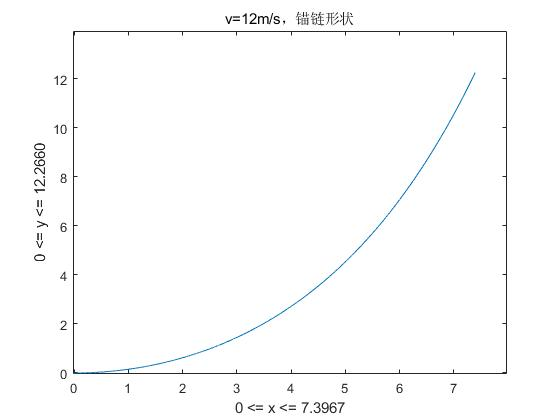
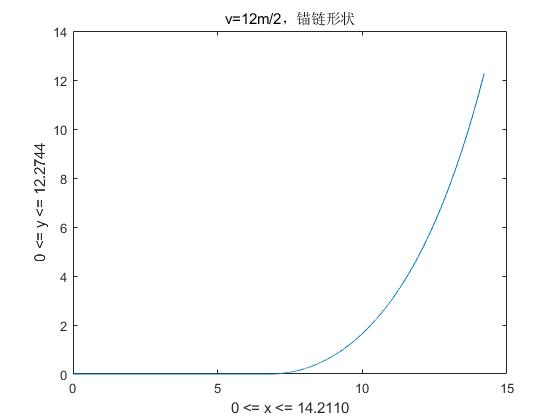
update figure

diff --git a/final_result.m b/final_result.m
@@ -1,5 +1,5 @@
 function [a,lc,alpha1,alpha2,alpha3,alpha4,alpha5,s,d,y0]=final_result(h)
-v=12;
+v=24;
 l=1;
 lb=1;
 [t1,theta1]=buoy(h,v);

diff --git a/sumh.m b/sumh.m
@@ -1,5 +1,5 @@
 function [a,y0,s]=sumh(h)
-v=36;
+v=12;
 l=1;
 lb=1;
 [t1,theta1]=buoy(h,v);
